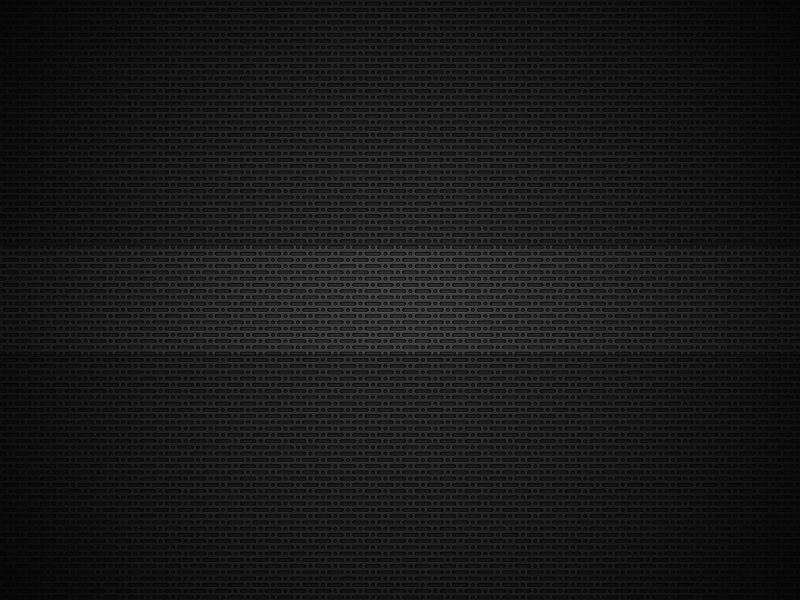
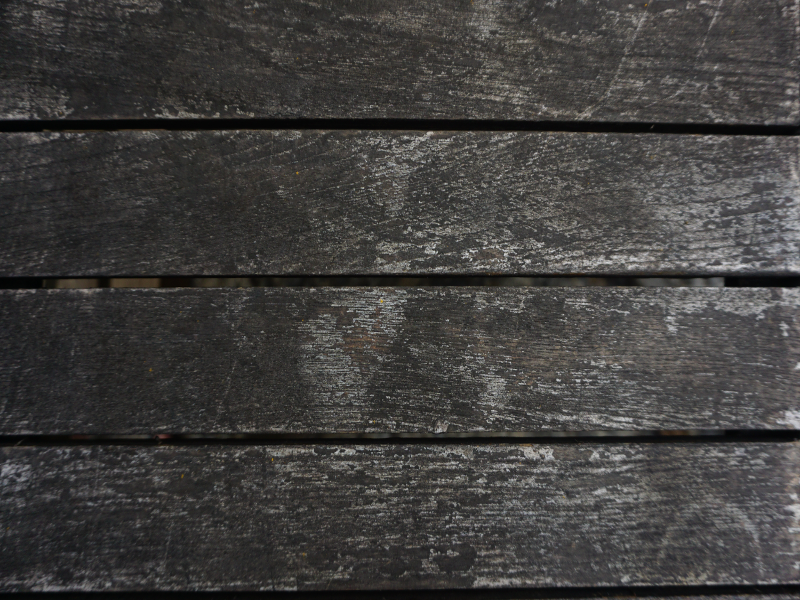
Animaciones de manolo con los sprays implementado y fondo del escenario cambiado

diff --git a/pssst.js b/pssst.js
@@ -100,12 +100,18 @@ var Q = window.Q = Quintus()
 			this.on("bump.left,bump.right,bump.bottom,bump.top",function(collision) {
 
 				if(collision.obj.isA("Spray")){
-					if(collision.obj.p.sheet =="Gusano")
+					if(collision.obj.p.sheet =="Gusano"){
 						this.p.disparo = "Gusano";
-					else if(collision.obj.p.sheet =="Josefino")
+						this.play("GusanoL");
+					}
+					else if(collision.obj.p.sheet =="Josefino"){
 						this.p.disparo = "Josefino";
-					else if(collision.obj.p.sheet =="Avispa")
+						this.play("JosefinoL");
+					}
+					else if(collision.obj.p.sheet =="Avispa"){
 						this.p.disparo = "Avispa";
+						this.play("AvispaL");
+					}
 				}
 			});
 		},
@@ -115,23 +121,31 @@ var Q = window.Q = Quintus()
 		},
 		step: function(dt) {
 			this.p.fire-=dt;
-			//console.log("VX: "+this.p.speed);
-			if(Q.inputs['left'] || Q.inputs['right'] || Q.inputs['up'] || Q.inputs['down']) {
+			console.log(this.p.disparo + this.p.direccion);
+			if((Q.inputs['left'] || Q.inputs['right'] || Q.inputs['up'] || Q.inputs['down']) && !this.p.disparo) {
 				this.play("walk");
-			} else {
+			} 
+			else if((Q.inputs['left'] || Q.inputs['right'] || Q.inputs['up'] || Q.inputs['down']) && this.p.disparo){
+				this.play(this.p.disparo + this.p.direccion);
+			}
+			else if(!(Q.inputs['left'] || Q.inputs['right'] || Q.inputs['up'] || Q.inputs['down']) && !this.p.disparo) {
 				this.play("still");
 			}
+			else if(!(Q.inputs['left'] || Q.inputs['right'] || Q.inputs['up'] || Q.inputs['down']) && this.p.disparo) {
+				this.play(this.p.disparo + this.p.direccion + "Still");
+			}
+
 			if(Q.inputs['left'])
 				this.p.direccion = "L";
 			if(Q.inputs['right'])
 				this.p.direccion = "R";
 			//console.log("disparo: " + this.p.disparo + " direccion: " + this.p.direccion + " disparo y direccion: " + this.p.disparo + this.p.direccion);
 			if(this.p.disparo && Q.inputs['fire'] && this.p.direccion == "R" && this.p.fire < 0){
-				this.p.stage.insert(new Q.Balas({x:this.p.x + 50, y:this.p.y, sheet:this.p.disparo + this.p.direccion, direccion:this.p.direccion, tipo: this.p.disparo}));
+				this.p.stage.insert(new Q.Balas({x:this.p.x + 66, y:this.p.y, sheet:this.p.disparo + this.p.direccion, direccion:this.p.direccion, tipo: this.p.disparo}));
 				this.p.fire= this.p.timeFire;
 			}
 			else if(this.p.disparo && Q.inputs['fire'] && this.p.direccion == "L" && this.p.fire < 0){
-				this.p.stage.insert(new Q.Balas({x:this.p.x - 50, y:this.p.y, sheet:this.p.disparo + this.p.direccion, direccion:this.p.direccion, tipo : this.p.disparo}));
+				this.p.stage.insert(new Q.Balas({x:this.p.x - 66, y:this.p.y, sheet:this.p.disparo + this.p.direccion, direccion:this.p.direccion, tipo : this.p.disparo}));
 				this.p.fire= this.p.timeFire;
 			}
 
@@ -142,6 +156,18 @@ var Q = window.Q = Quintus()
 	Q.animations("manolo", {
 		walk: { frames: [0,1], rate: 1/16, flip: false, loop: true },
 		still: { frames: [0,1], rate: 2, flip: false, loop: true },
+		GusanoL: { frames: [2,3], rate: 1/16, flip: false, loop: true },
+		GusanoLStill: { frames: [2,3], rate: 2, flip: false, loop: true },
+		GusanoR: { frames: [4,5], rate: 1/16, flip: false, loop: true },
+	    GusanoRStill: { frames: [4,5], rate: 2, flip: false, loop: true },
+		JosefinoL: { frames: [6,7], rate: 1/16, flip: false, loop: true },
+		JosefinoLStill: { frames: [6,7], rate: 2, flip: false, loop: true },
+		JosefinoR: { frames: [8,9], rate: 1/16, flip: false, loop: true },
+		JosefinoRStill: { frames: [8,9], rate: 2, flip: false, loop: true },
+		AvispaL: { frames: [10,11], rate: 1/16, flip: false, loop: true },
+		AvispaLStill: { frames: [10,11], rate: 2, flip: false, loop: true },
+		AvispaR: { frames: [12,13], rate: 1/16, flip: false, loop: true },
+		AvispaRStill: { frames: [12,13], rate: 2, flip: false, loop: true }
 	});
 
  /* ---------------------------- Gusano --------------------------------- */
@@ -337,7 +363,7 @@ var Q = window.Q = Quintus()
 	});
 
 	/*Q.animations("balas", {
-		JosefinoRamiro: {frames: [4,5,6], rate: 1/5, flip: false, loop: true }
+		JosefinoRamiro: {frames: [4], rate: 1/5, flip: false, loop: true }
 	});*/
 
 	/*---------------------------------Regadera-----------------------------------*/
@@ -381,7 +407,7 @@ var Q = window.Q = Quintus()
 		},
 
 		step: function(dt) {
-			console.log("Vida:"+this.p.vida+"    Escala:"+this.p.scale+"    Y:"+this.p.y)
+			//console.log("Vida:"+this.p.vida+"    Escala:"+this.p.scale+"    Y:"+this.p.y)
 			this.p.time-=dt;
 			if (!this.p.end && this.p.insectos == 0 && this.p.time < 0) {
 				this.p.vida++;
